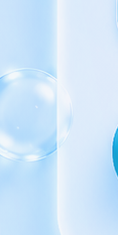
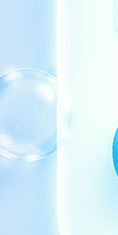
feat(onboarding): update decorative bubbles and card positioning
Adjust dimensions and positioning for the top onboarding bubbles and refine the card's top margin to ensure visual alignment and prevent background asset clipping.

Changed region(s): [[0.9407, 0.0, 1.0, 1.0]]

diff --git a/src/app/onboarding.tsx b/src/app/onboarding.tsx
@@ -199,10 +199,10 @@ const styles = StyleSheet.create({
   },
   bubblesTop: {
     position: "absolute",
-    top: 49,
-    left: 302,
-    width: 98,
-    height: 111,
+    top: 42,
+    left: 300,
+    width: 111,
+    height: 137,
   },
   bubblesBottom: {
     position: "absolute",
@@ -236,7 +236,9 @@ const styles = StyleSheet.create({
   card: {
     flex: 1,
     marginHorizontal: 30,
-    marginTop: 20,
+    // 18 keeps the card top at/above y=161.6 so baked pixels from the
+    // bubble crop's card region never peek out above the card.
+    marginTop: 18,
     borderRadius: 26,
     borderWidth: 1,
     borderColor: "#FFFFFF",
